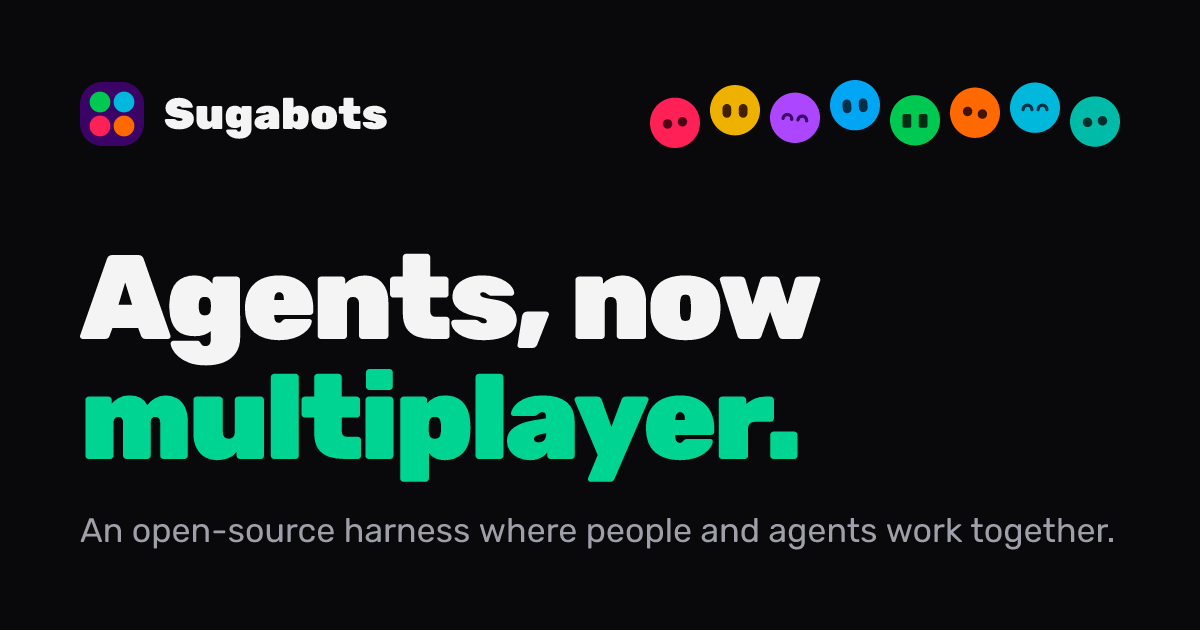
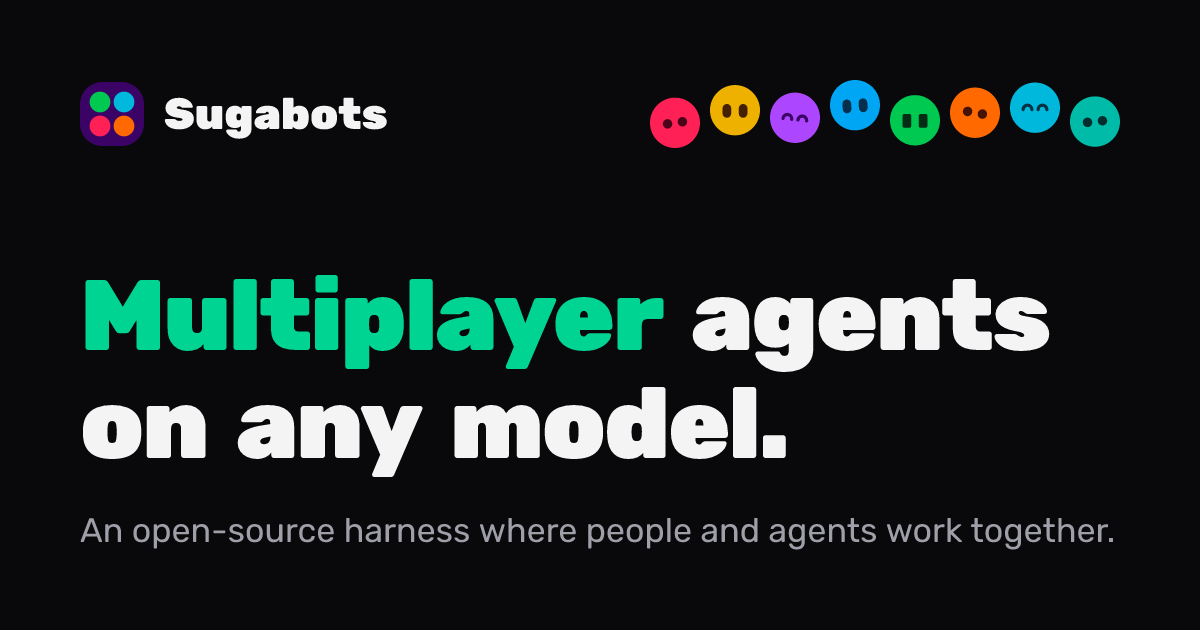
feat(website): use the new headline in the page title and OG image

Changed region(s): [[0.0617, 0.3921, 0.8942, 0.7841]]

diff --git a/packages/website/scripts/generate-og-image.tsx b/packages/website/scripts/generate-og-image.tsx
@@ -17,9 +17,6 @@ import { siteMeta } from "../src/site-meta.ts";
 const WIDTH = 1200;
 const HEIGHT = 630;
 
-const HEADLINE = "Agents, now";
-const HEADLINE_ACCENT = "multiplayer.";
-
 const toSrgb = toGamut("rgb", "oklch");
 function hex(tailwindColor: string): string {
 	const parsed = parse(tailwindColor);
@@ -70,18 +67,22 @@ const image = (
 			/>
 		</div>
 		<div style={{ display: "flex", flexDirection: "column", gap: 32 }}>
+			{/* One span per word, so satori wraps the headline between words like a browser. */}
 			<div
 				style={{
 					display: "flex",
-					flexDirection: "column",
-					fontSize: 120,
+					flexWrap: "wrap",
+					columnGap: 26,
+					fontSize: 100,
 					fontWeight: 900,
-					lineHeight: 1,
-					letterSpacing: -4,
+					lineHeight: 1.08,
+					letterSpacing: -2,
 				}}
 			>
-				<span>{HEADLINE}</span>
-				<span style={{ color: hex(colors.emerald[400]) }}>{HEADLINE_ACCENT}</span>
+				<span style={{ color: hex(colors.emerald[400]) }}>{siteMeta.headline.accent}</span>
+				{`${siteMeta.headline.rest}.`.split(" ").map((word) => (
+					<span key={word}>{word}</span>
+				))}
 			</div>
 			<span style={{ fontSize: 34, color: hex(colors.zinc[400]) }}>{siteMeta.description}</span>
 		</div>

diff --git a/packages/website/src/landing/hero.tsx b/packages/website/src/landing/hero.tsx
@@ -8,6 +8,7 @@ import { Emphasis } from "@/components/emphasis";
 import { Reveal, RevealItem, riseIn } from "@/components/reveal";
 import { buttonVariants } from "@/components/ui/button";
 import { launched, siteLinks } from "@/site-links";
+import { siteMeta } from "@/site-meta";
 
 /** The bot crowd, drawn inline so each face can pop in. Poses assume a 40px face. */
 function BotCrowd() {
@@ -31,7 +32,8 @@ export function Hero() {
 					variants={riseIn}
 					className="text-5xl leading-13 font-black tracking-tight text-balance sm:text-6xl sm:leading-16"
 				>
-					<span className={accentText({ tone: "emerald" })}>Multiplayer</span> agents on any model.
+					<span className={accentText({ tone: "emerald" })}>{siteMeta.headline.accent}</span>{" "}
+					{siteMeta.headline.rest}.
 				</motion.h1>
 				<motion.p
 					variants={riseIn}

diff --git a/packages/website/src/site-meta.ts b/packages/website/src/site-meta.ts
@@ -1,7 +1,11 @@
-/** What the site says about itself, in the page head and the link-preview image. */
+/** The headline, split where the accent colour ends. */
+const headline = { accent: "Multiplayer", rest: "agents on any model" } as const;
+
+/** What the site says about itself: the hero, the page head and the link-preview image. */
 export const siteMeta = {
 	url: "https://sugabots.ai",
-	title: "Sugabots — agents, now multiplayer",
+	headline,
+	title: `Sugabots | ${headline.accent} ${headline.rest}`,
 	description: "An open-source harness where people and agents work together.",
 	/** Written by scripts/generate-og-image.tsx. */
 	ogImagePath: "/og.png",
